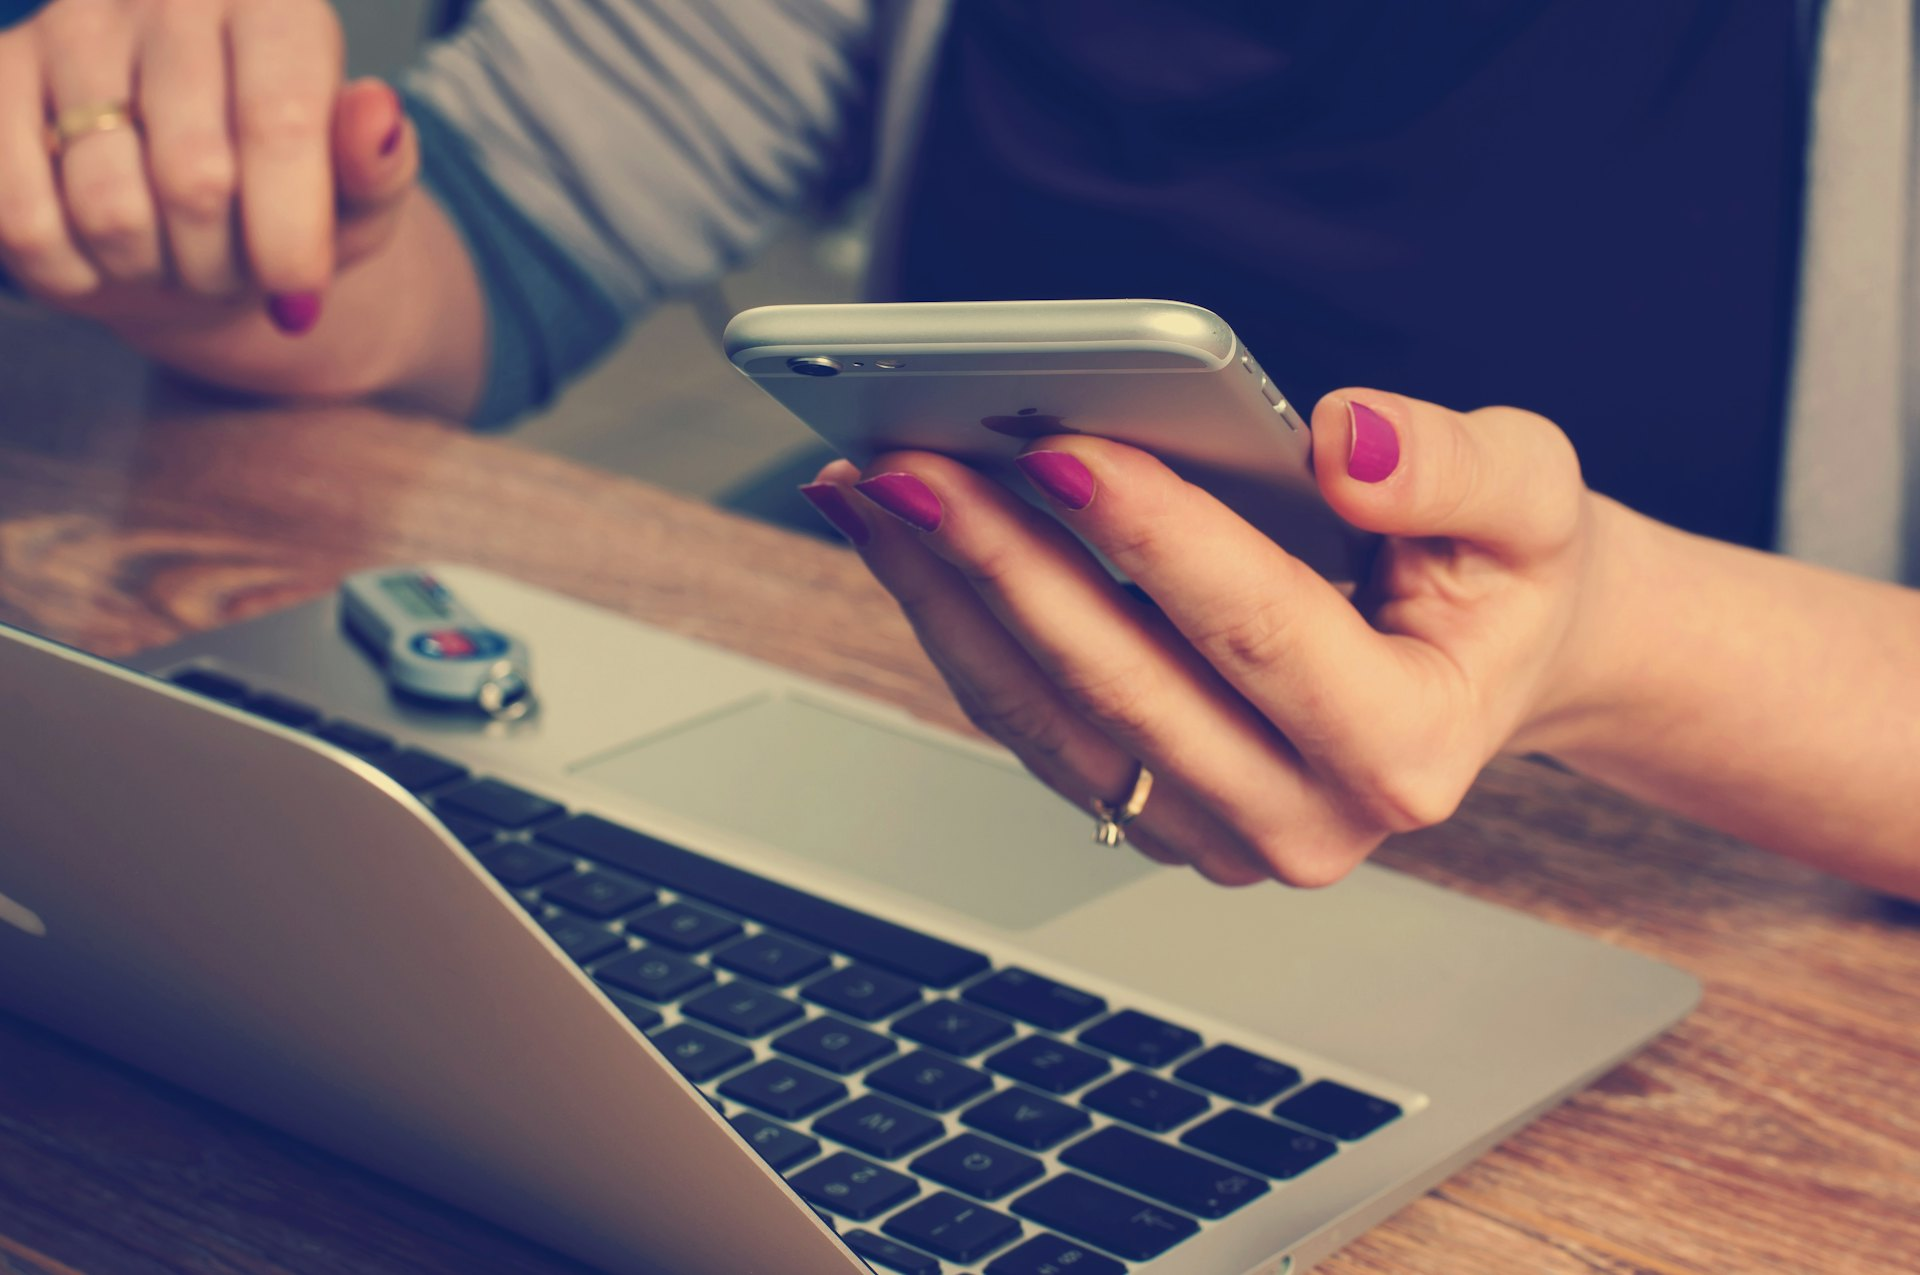
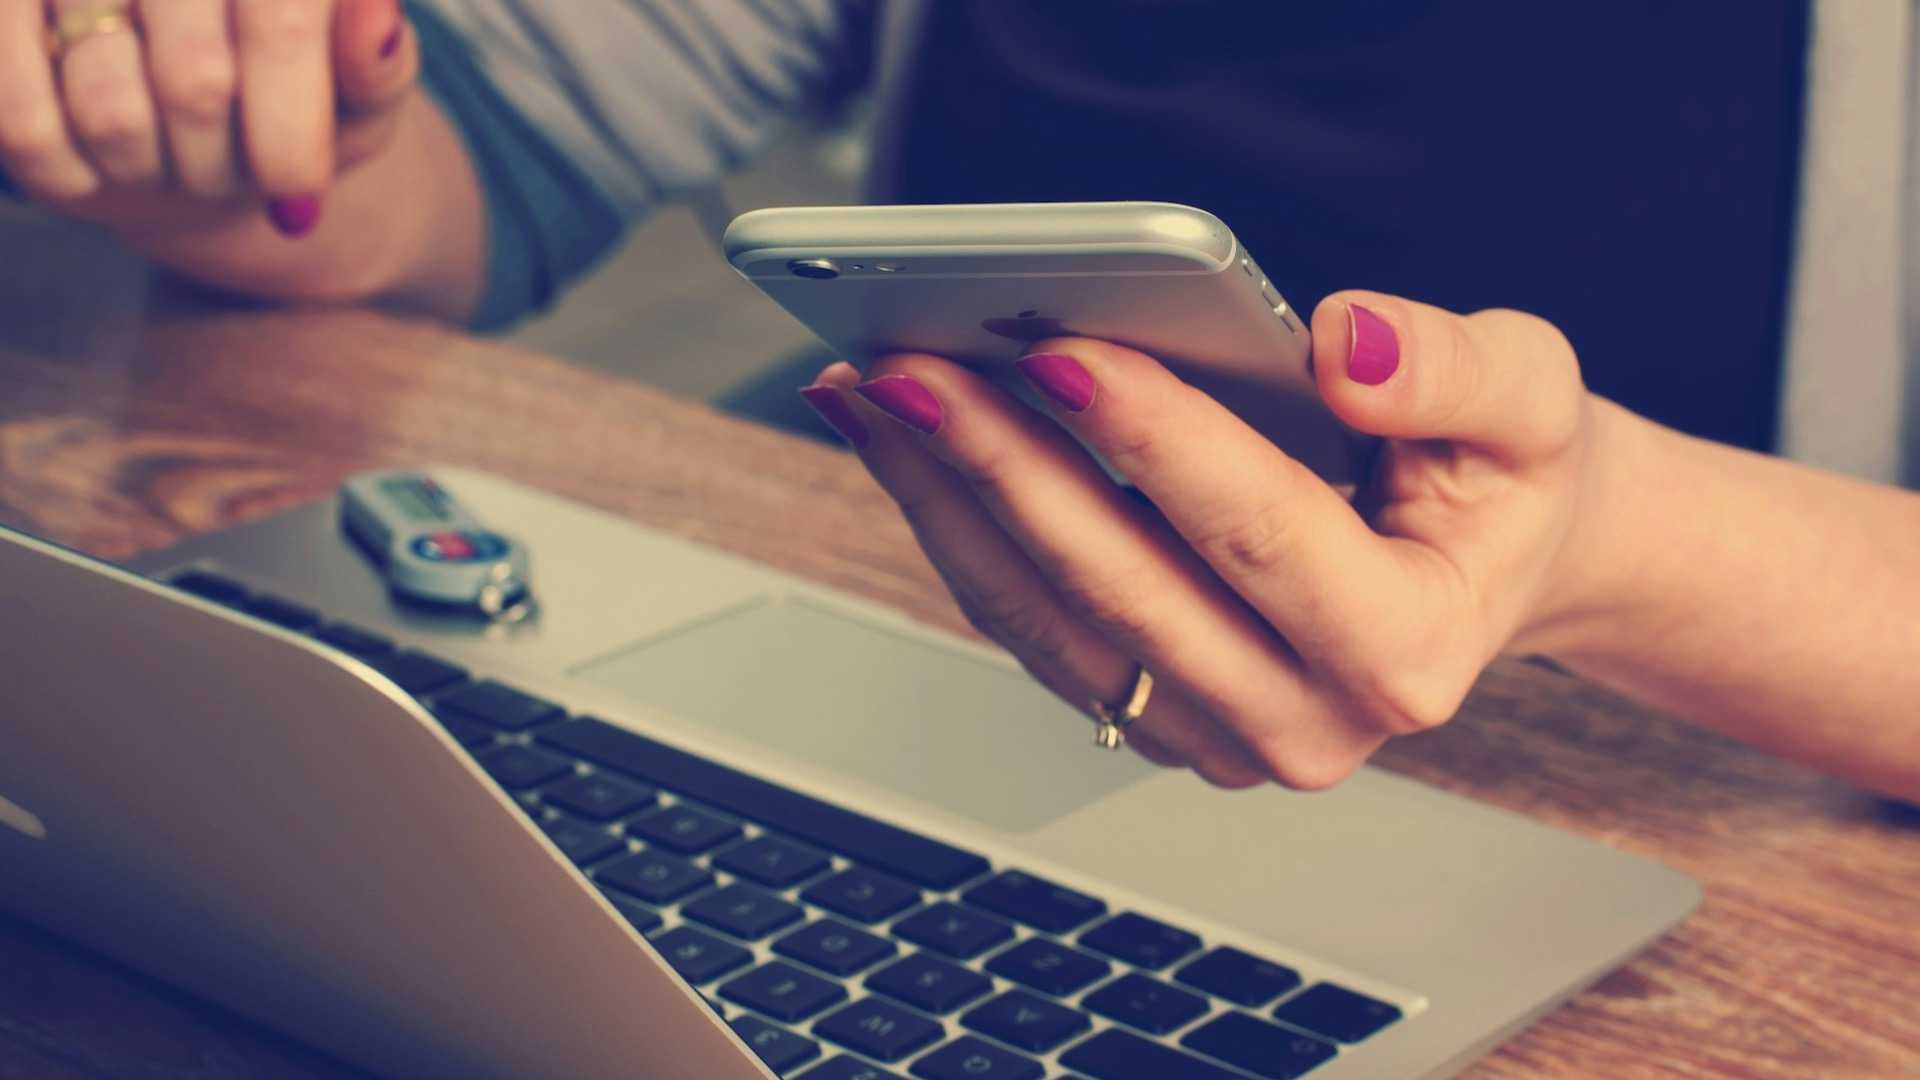
feat(design): themed + uniform 1920x1080 hero images across all pages
- Add hero-home.jpg (server room), hero-pricing.jpg (laptop+charts), hero-review.jpg (handshake/consult)
- Replace generic .bg-hero (wereopen.webp) on /, /pricing/, /review/ with page-specific themed bgs
- Normalize ALL 7 hero JPGs to exact 1920x1080 (sips resample + center-crop)
- Each page now has its own contextually relevant hero photo
- All photos same dimensions = consistent hero band height across site

diff --git a/css/custom.min.css b/css/custom.min.css
@@ -414,3 +414,6 @@ header nav a:hover:after{width:100%}
 /* === uniform pill list for service areas / facts === */
 .pill-list{list-style:none;padding:0;margin:1rem 0 0;display:flex;flex-wrap:wrap;gap:.5rem}
 .pill-list li{background:rgba(0,151,167,.10);color:var(--heading);border:1px solid rgba(0,151,167,.25);border-radius:999px;padding:.35rem .85rem;font-size:.88rem}
+.bg-hero-home{background-image:url('../images/backgrounds/hero-home.jpg');background-size:cover;background-position:center}
+.bg-hero-pricing{background-image:url('../images/backgrounds/hero-pricing.jpg');background-size:cover;background-position:center}
+.bg-hero-review{background-image:url('../images/backgrounds/hero-review.jpg');background-size:cover;background-position:center}

diff --git a/index.html b/index.html
@@ -93,7 +93,7 @@
 
   <div data-include="/partials/header.html"></div>
 
-  <section class="hero-area bg-cover bg-center bg-hero">
+  <section class="hero-area bg-cover bg-center bg-hero-home">
     <div class="container mx-auto py-24 text-center text-base-100">
       <h1 class="text-4xl md:text-5xl font-bold">Managed IT &amp; Cybersecurity Services in Marietta, Ohio</h1>
       <p class="mt-4 text-lg md:text-xl">Based in Beverly, serving small businesses, churches, and non-profits across Marietta, Washington County, and southeast Ohio. Flat per-device monthly pricing &mdash; no hourly billing, no surprise invoices.</p>

diff --git a/review/index.html b/review/index.html
@@ -56,7 +56,7 @@
 <body id="body">
   <div data-include="/partials/header.html"></div>
   <main>
-    <section class="hero-area bg-cover bg-center bg-hero">
+    <section class="hero-area bg-cover bg-center bg-hero-review">
       <div class="container mx-auto py-24 text-center text-base-100">
         <p class="text-sm uppercase tracking-wider opacity-90">Free 30-Minute Review</p>
         <h1 class="text-4xl md:text-5xl font-bold mt-3">Not sure where your IT stands? Let&rsquo;s take a look together.</h1>

diff --git a/pricing/index.html b/pricing/index.html
@@ -98,7 +98,7 @@
   <div data-include="/partials/header.html"></div>
 
   <main>
-    <section class="hero-area bg-cover bg-center bg-hero">
+    <section class="hero-area bg-cover bg-center bg-hero-pricing">
       <div class="container mx-auto py-24 text-center text-base-100">
         <p class="text-sm uppercase tracking-wider opacity-90">Per-Device Managed IT &amp; Cybersecurity</p>
         <h1 class="text-4xl md:text-5xl font-bold mt-3">One flat price per device. Security included.</h1>
